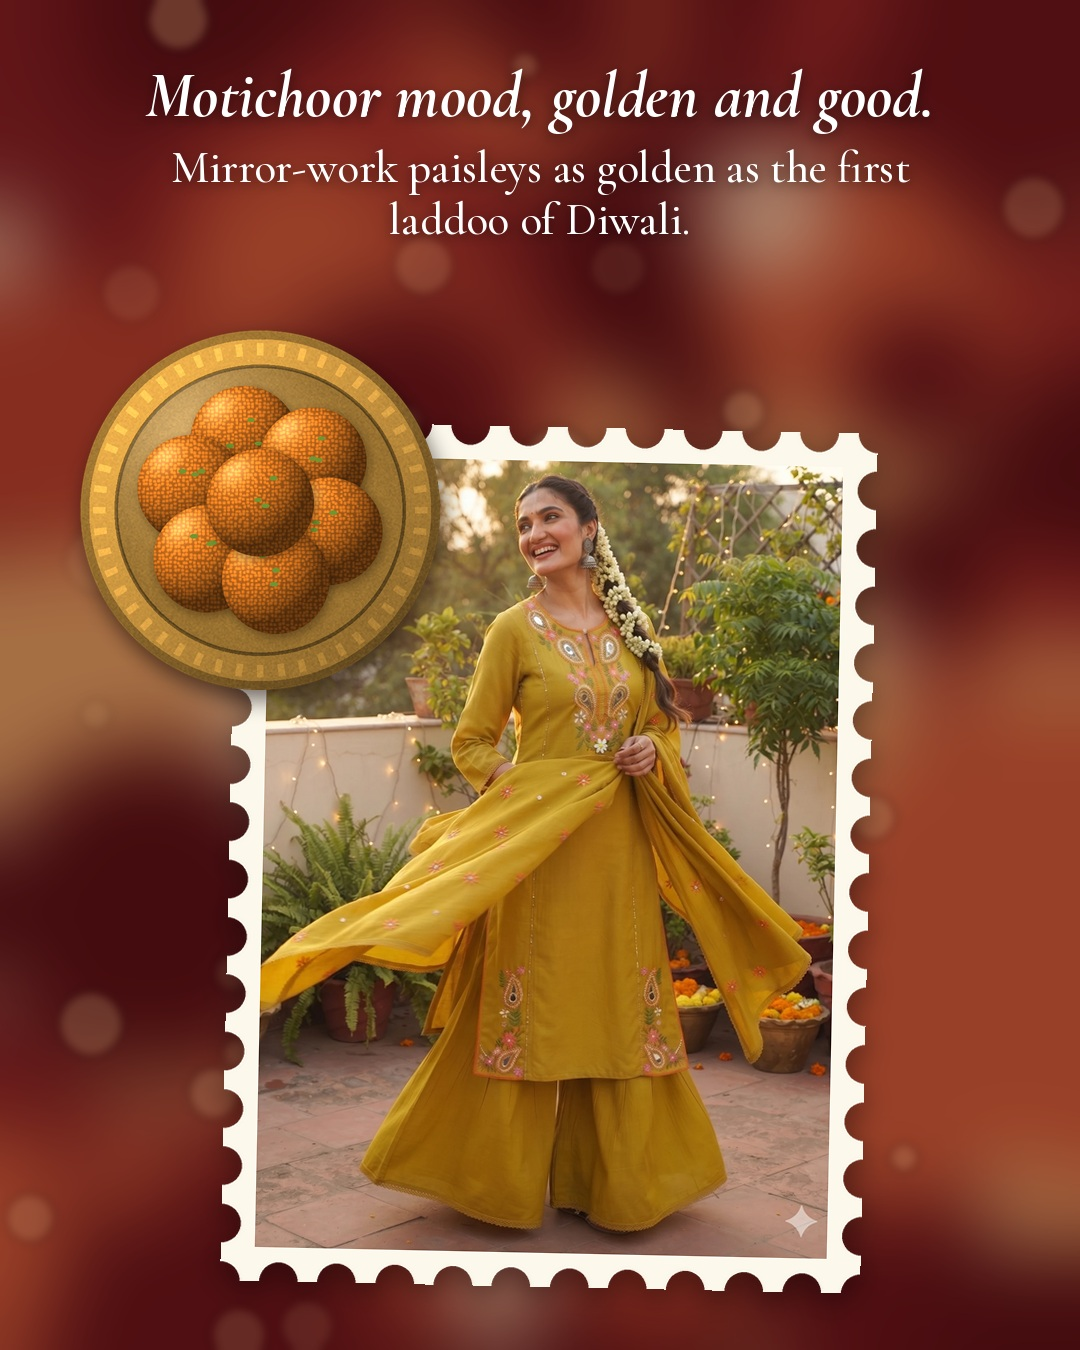
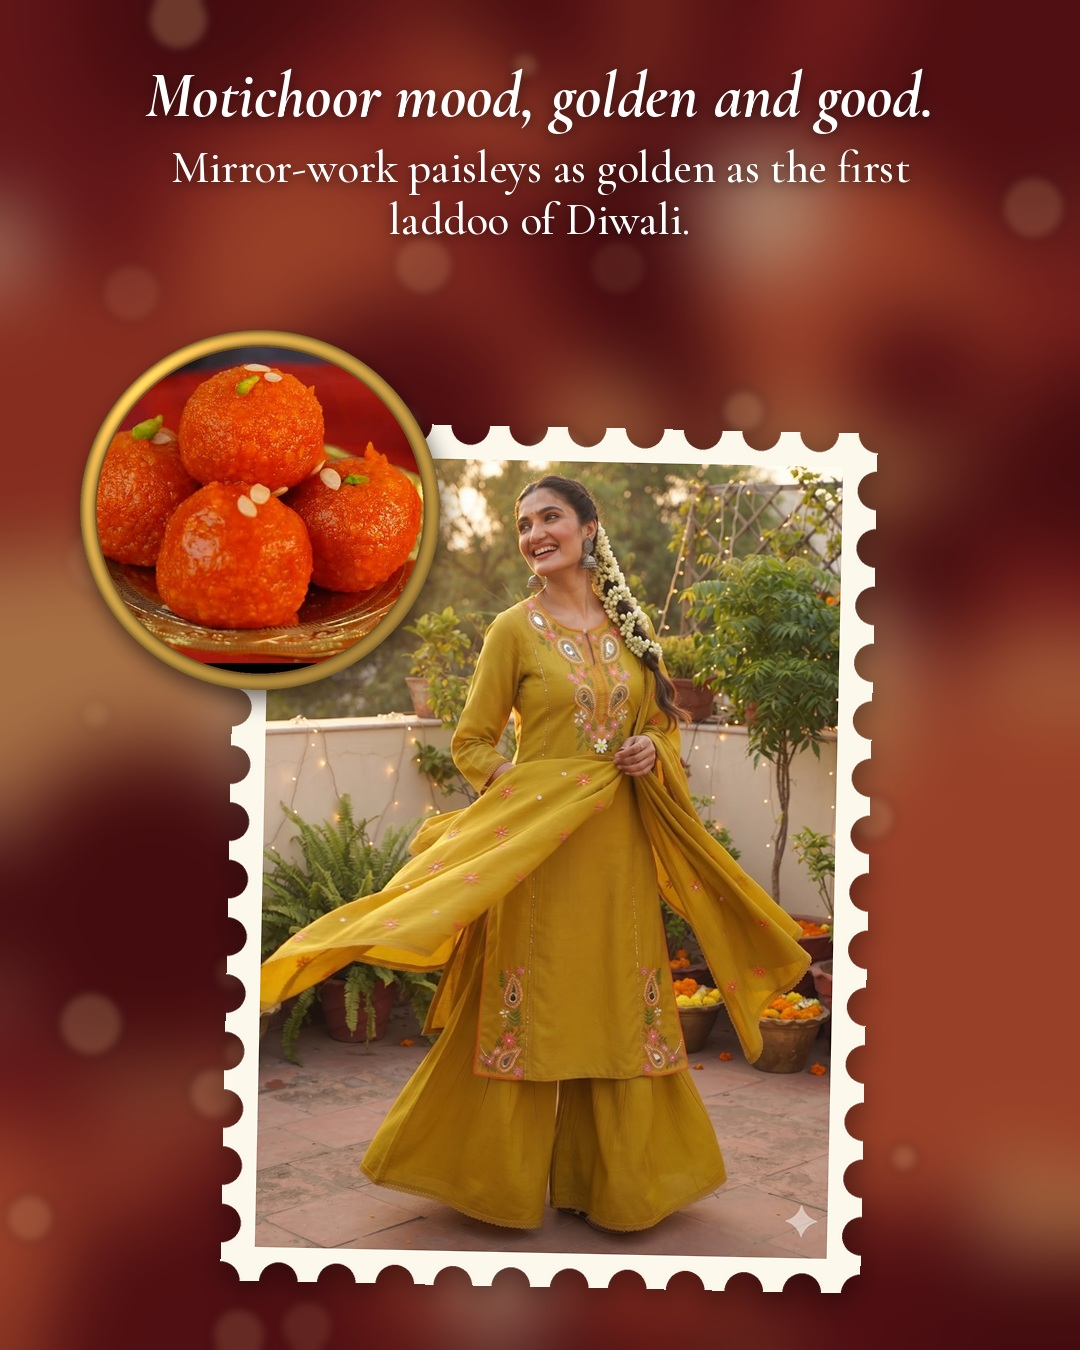
Mithai carousel: real mithai photos as gold-rimmed round stickers
Claude-Session: https://claude.ai/code/session_01LZv7UTnsZcwjx4RXmrtg3u

Changed region(s): [[0.0611, 0.2489, 0.4278, 0.5289]]

diff --git a/marketing/posts/mithai_carousel.py b/marketing/posts/mithai_carousel.py
@@ -1,12 +1,13 @@
 #!/usr/bin/env python3
 """5-slide 4:5 "Mithai moods" Diwali carousel, laid out like the reference post: a blurred festive background, cream
 postage-stamp frames with scalloped edges, a cover with three looks and a headline stamp (plus a firework burst and
-rockets), then one look per slide paired with a mithai of the same colour (drawn by mithai.py) and an italic
+rockets), then one look per slide paired with a mithai of the same colour (a round, gold-rimmed photo sticker) and an italic
 headline with a short line under it.
 
 Usage:
     python3 mithai_carousel.py <fonts_dir> <photos_dir> <out_dir>
-<photos_dir> holds mustard-sharara, pink-short-top, indigo-dabu, green-print and olive-kalamkari (any extension).
+<photos_dir> holds mustard-sharara, pink-short-top, indigo-dabu, green-print and olive-kalamkari (any extension), and a
+mithai/ folder with laddoo, katli, coconut and barfi photos.
 """
 import glob
 import math
@@ -17,7 +18,6 @@ import numpy as np
 from PIL import Image, ImageDraw, ImageFilter, ImageFont
 
 sys.path.insert(0, os.path.dirname(os.path.abspath(__file__)))
-from mithai import mithai_plate  # noqa: E402
 
 W, H = 1080, 1350
 CREAM = (253, 248, 236)
@@ -34,6 +34,9 @@ SLIDES = [
     ("green-print", (0, .845), "barfi", "right", "Pista green, easy and serene.",
      "Soft prints for long Diwali days of guests, games and gupshup."),
 ]
+# mithai photo, crop circle (centre x, centre y, radius) as fractions of the photo's width
+MITHAI = {"laddoo": ("laddoo", (.523, .596, .433)), "katli": ("katli", (.57, .43, .28)),
+          "coconut": ("coconut", (.49, .9, .4)), "barfi": ("barfi", (.5, .485, .45))}
 COVER = ["olive-kalamkari", "mustard-sharara", "indigo-dabu"]
 COVER_TEXT = ["Mithai moods", "& handmade", "looks this", "DIWALI"]
 
@@ -53,6 +56,36 @@ def cover_crop(im, w, h, fy=.35):
     x = (r.width - w) // 2
     y = int(min(max(r.height * fy - h / 2, 0), r.height - h))
     return r.crop((x, y, x + w, y + h))
+
+
+def mithai_sticker(photos_dir, kind, d):
+    """The mithai photo cut into a circle inside a polished gold rim, like a plate seen from above."""
+    name, (fx, fy, fr) = MITHAI[kind]
+    im = load(os.path.join(photos_dir, "mithai"), name)
+    cx, cy, r = fx * im.width, fy * im.width, fr * im.width
+    S = 2
+    D = d * S
+    ring = int(D * .045)
+    inner = im.crop((int(cx - r), int(cy - r), int(cx + r), int(cy + r))).resize((D - 2 * ring, D - 2 * ring), Image.LANCZOS)
+    y, x = np.mgrid[0:D, 0:D].astype(np.float32)
+    c = D / 2
+    rr = np.hypot(x - c, y - c)
+    ang = np.arctan2(y - c, x - c)
+    t = np.clip((rr - (c - ring)) / ring, 0, 1)                 # 0 inner edge .. 1 outer edge of the rim
+    light = .5 + .5 * np.cos(ang + 2.3)
+    prof = np.sin(t * math.pi)                                   # rounded rim
+    k = .55 + .5 * prof * (.6 + .6 * light) + .25 * np.exp(-((ang + 2.3) / .4) ** 2) * prof
+    gold = np.array([206, 160, 70], np.float32)[None, None] * k[..., None]
+    img = Image.fromarray(np.clip(gold, 0, 255).astype(np.uint8)).convert("RGBA")
+    m = Image.new("L", inner.size, 0)
+    ImageDraw.Draw(m).ellipse((0, 0, inner.width - 1, inner.height - 1), fill=255)
+    img.paste(inner, (ring, ring), m)
+    dd = ImageDraw.Draw(img)
+    dd.ellipse((ring - S, ring - S, D - ring + S, D - ring + S), outline=(120, 80, 30, 255), width=2 * S)
+    a = Image.new("L", (D, D), 0)
+    ImageDraw.Draw(a).ellipse((0, 0, D - 1, D - 1), fill=255)
+    img.putalpha(a)
+    return img.resize((d, d), Image.LANCZOS)
 
 
 def background(seed=4):
@@ -174,7 +207,7 @@ def text_block(img, lines_fonts, y, fill=(255, 255, 255), shadow=True):
     return y
 
 
-def slide(bg, fonts_dir, photo, crop, kind, side, head, line, seed):
+def slide(bg, fonts_dir, photos_dir, photo, crop, kind, side, head, line):
     img = bg.copy()
     fh = font(fonts_dir, "cormorant-garamond", 700, "italic", 64)
     fl = font(fonts_dir, "cormorant-garamond", 500, "normal", 45)
@@ -190,7 +223,7 @@ def slide(bg, fonts_dir, photo, crop, kind, side, head, line, seed):
     st = st.rotate(-1.2 if side == "left" else 1.2, expand=True, resample=Image.BICUBIC)
     drop(img, st, (x, y))
     d = 360
-    pl = mithai_plate(kind, d, seed)
+    pl = mithai_sticker(photos_dir, kind, d)
     px = x - 140 if side == "left" else x + sw - 220
     drop(img, pl, (px, y - 90), blur=10, off=(4, 10), a=150)
     return img
@@ -231,7 +264,7 @@ def main():
     cover(bg, fonts_dir, [load(photos_dir, k) for k in COVER]).convert("RGB").save(
         os.path.join(out_dir, "slide-1-cover.jpg"), quality=94)
     for i, (key, crop, kind, side, head, line) in enumerate(SLIDES):
-        img = slide(bg, fonts_dir, load(photos_dir, key), crop, kind, side, head, line, seed=i + 1)
+        img = slide(bg, fonts_dir, photos_dir, load(photos_dir, key), crop, kind, side, head, line)
         img.convert("RGB").save(os.path.join(out_dir, f"slide-{i + 2}-{key}.jpg"), quality=94)
         print(f"slide-{i + 2}-{key}.jpg")
 
